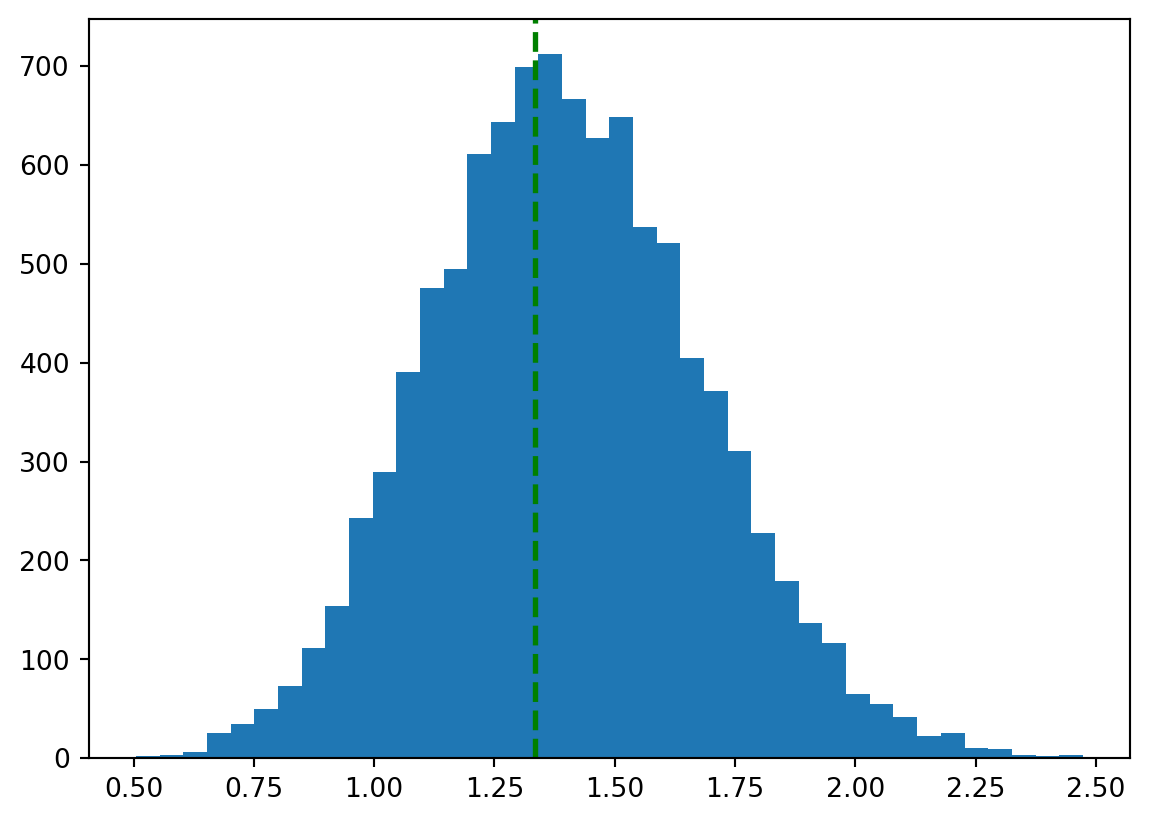
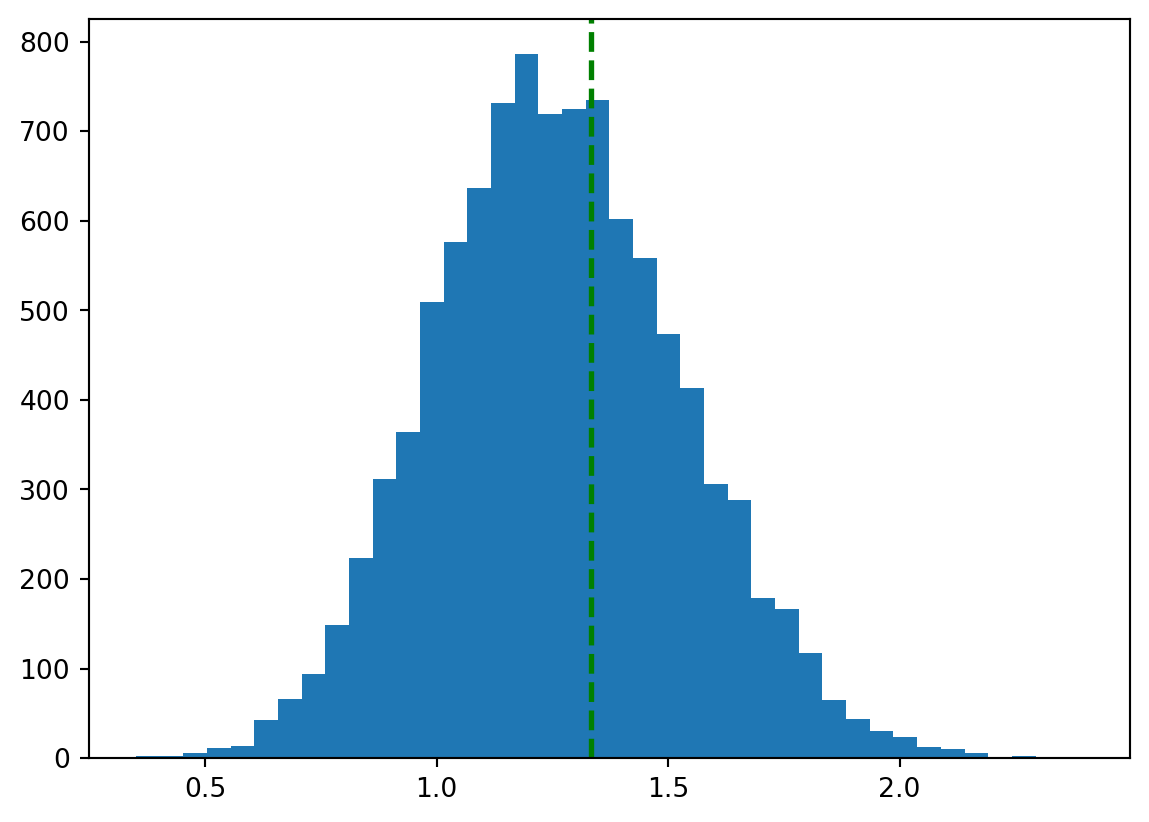
yeah~

diff --git a/docs/posts/hw5/hw5.html b/docs/posts/hw5/hw5.html
@@ -7,7 +7,7 @@
 <meta name="viewport" content="width=device-width, initial-scale=1.0, user-scalable=yes">
 
 <meta name="author" content="iljoon">
-<meta name="dcterms.date" content="2024-07-29">
+<meta name="dcterms.date" content="2024-07-30">
 
 <title>장일준 포트폴리오 페이지 - LS Bigdata School Homework 5</title>
 <style>
@@ -163,7 +163,7 @@ pre > code.sourceCode > span > a:first-child::before { text-decoration: underlin
       <div>
       <div class="quarto-title-meta-heading">Published</div>
       <div class="quarto-title-meta-contents">
-        <p class="date">July 29, 2024</p>
+        <p class="date">July 30, 2024</p>
       </div>
     </div>
     
@@ -179,7 +179,8 @@ pre > code.sourceCode > span > a:first-child::before { text-decoration: underlin
     <h2 id="toc-title">On this page</h2>
    
   <ul>
-  <li><a href="#패키지-불러오기." id="toc-패키지-불러오기." class="nav-link active" data-scroll-target="#패키지-불러오기.">패키지 불러오기.</a></li>
+  <li><a href="#분산-구할-때-n으로-나누기-n-1로-나누기-비교" id="toc-분산-구할-때-n으로-나누기-n-1로-나누기-비교" class="nav-link active" data-scroll-target="#분산-구할-때-n으로-나누기-n-1로-나누기-비교">분산 구할 때 n으로 나누기, n-1로 나누기 비교</a></li>
+  <li><a href="#패키지-불러오기." id="toc-패키지-불러오기." class="nav-link" data-scroll-target="#패키지-불러오기.">패키지 불러오기.</a></li>
   <li><a href="#표본-분산-계산해보기" id="toc-표본-분산-계산해보기" class="nav-link" data-scroll-target="#표본-분산-계산해보기">표본 분산 계산해보기</a></li>
   <li><a href="#이론적인-분산-값" id="toc-이론적인-분산-값" class="nav-link" data-scroll-target="#이론적인-분산-값">이론적인 분산 값</a></li>
   <li><a href="#몬테카를로-시뮬레이션을-이용해서-분산값-구하기." id="toc-몬테카를로-시뮬레이션을-이용해서-분산값-구하기." class="nav-link" data-scroll-target="#몬테카를로-시뮬레이션을-이용해서-분산값-구하기.">몬테카를로 시뮬레이션을 이용해서 분산값 구하기.</a></li>
@@ -198,13 +199,16 @@ pre > code.sourceCode > span > a:first-child::before { text-decoration: underlin
 
 
 
+<section id="분산-구할-때-n으로-나누기-n-1로-나누기-비교" class="level1">
+<h1>분산 구할 때 n으로 나누기, n-1로 나누기 비교</h1>
 <p>표본 분산 계산 시 왜 n-1로 나누는지 알아보도록 하겠습니다.</p>
 <p>균일분포 (3, 7)에서 20개의 표본을 뽑아서 분산을 2가지 방법으로 추정해보세요.</p>
 <p>n-1로 나눈 것을 s_2, n으로 나눈 것을 k_2로 정의하고, s_2의 분포와 k_2의 분포를 그려주세요! (10000개 사용) 각 분포 그래프에 모분산의 위치에 녹색 막대를 그려주세요. 결과를 살펴보고, 왜 n-1로 나눈 것을 분산을 추정하는 지표로 사용하는 것이 타당한지 써주세요!</p>
 <hr>
+</section>
 <section id="패키지-불러오기." class="level1">
 <h1>패키지 불러오기.</h1>
-<div id="57d590d7" class="cell" data-execution_count="1">
+<div id="1037faa1" class="cell" data-execution_count="1">
 <div class="sourceCode cell-code" id="cb1"><pre class="sourceCode python code-with-copy"><code class="sourceCode python"><span id="cb1-1"><a href="#cb1-1" aria-hidden="true" tabindex="-1"></a><span class="im">import</span> numpy <span class="im">as</span> np</span>
 <span id="cb1-2"><a href="#cb1-2" aria-hidden="true" tabindex="-1"></a><span class="im">import</span> pandas <span class="im">as</span> pd</span>
 <span id="cb1-3"><a href="#cb1-3" aria-hidden="true" tabindex="-1"></a><span class="im">import</span> seaborn <span class="im">as</span> sns</span>
@@ -215,40 +219,39 @@ pre > code.sourceCode > span > a:first-child::before { text-decoration: underlin
 </section>
 <section id="표본-분산-계산해보기" class="level1">
 <h1>표본 분산 계산해보기</h1>
-<div id="99fae22c" class="cell" data-execution_count="2">
+<div id="d718cba3" class="cell" data-execution_count="2">
 <div class="sourceCode cell-code" id="cb2"><pre class="sourceCode python code-with-copy"><code class="sourceCode python"><span id="cb2-1"><a href="#cb2-1" aria-hidden="true" tabindex="-1"></a>np.random.seed(<span class="dv">20240729</span>)</span>
 <span id="cb2-2"><a href="#cb2-2" aria-hidden="true" tabindex="-1"></a>x <span class="op">=</span> uniform.rvs(loc <span class="op">=</span> <span class="dv">3</span>, scale <span class="op">=</span> <span class="dv">4</span>, size <span class="op">=</span> <span class="dv">20</span>)</span>
 <span id="cb2-3"><a href="#cb2-3" aria-hidden="true" tabindex="-1"></a>x_bar <span class="op">=</span> np.mean(x)</span>
 <span id="cb2-4"><a href="#cb2-4" aria-hidden="true" tabindex="-1"></a><span class="bu">sum</span>((x <span class="op">-</span> x_bar)<span class="op">**</span><span class="dv">2</span>) <span class="op">/</span> (<span class="bu">len</span>(x)<span class="op">-</span><span class="dv">1</span>)</span>
 <span id="cb2-5"><a href="#cb2-5" aria-hidden="true" tabindex="-1"></a><span class="co"># 1.669</span></span></code><button title="Copy to Clipboard" class="code-copy-button"><i class="bi"></i></button></pre></div>
-<div class="cell-output cell-output-display" data-execution_count="2">
+<div class="cell-output cell-output-display" data-execution_count="10">
 <pre><code>np.float64(1.6697498189003381)</code></pre>
 </div>
 </div>
 </section>
 <section id="이론적인-분산-값" class="level1">
 <h1>이론적인 분산 값</h1>
-<div id="5c3868b2" class="cell" data-execution_count="3">
+<div id="d1f29ba6" class="cell" data-execution_count="3">
 <div class="sourceCode cell-code" id="cb4"><pre class="sourceCode python code-with-copy"><code class="sourceCode python"><span id="cb4-1"><a href="#cb4-1" aria-hidden="true" tabindex="-1"></a>my_var <span class="op">=</span> uniform.var(loc <span class="op">=</span> <span class="dv">3</span>, scale <span class="op">=</span> <span class="dv">4</span>)</span>
 <span id="cb4-2"><a href="#cb4-2" aria-hidden="true" tabindex="-1"></a><span class="co"># 1.333</span></span></code><button title="Copy to Clipboard" class="code-copy-button"><i class="bi"></i></button></pre></div>
 </div>
 </section>
 <section id="몬테카를로-시뮬레이션을-이용해서-분산값-구하기." class="level1">
 <h1>몬테카를로 시뮬레이션을 이용해서 분산값 구하기.</h1>
-<div id="5fcde32d" class="cell" data-execution_count="4">
+<div id="922fc1b8" class="cell" data-execution_count="4">
 <div class="sourceCode cell-code" id="cb5"><pre class="sourceCode python code-with-copy"><code class="sourceCode python"><span id="cb5-1"><a href="#cb5-1" aria-hidden="true" tabindex="-1"></a>np.random.seed(<span class="dv">20240729</span>)</span>
 <span id="cb5-2"><a href="#cb5-2" aria-hidden="true" tabindex="-1"></a>x <span class="op">=</span> uniform.rvs(loc <span class="op">=</span> <span class="dv">3</span>, scale <span class="op">=</span> <span class="dv">4</span>, size <span class="op">=</span> <span class="dv">20</span> <span class="op">*</span> <span class="dv">10000</span>)</span>
 <span id="cb5-3"><a href="#cb5-3" aria-hidden="true" tabindex="-1"></a>x.shape</span>
-<span id="cb5-4"><a href="#cb5-4" aria-hidden="true" tabindex="-1"></a>x <span class="op">=</span> np.reshape(x, (<span class="dv">20</span>, <span class="op">-</span><span class="dv">1</span>))</span>
+<span id="cb5-4"><a href="#cb5-4" aria-hidden="true" tabindex="-1"></a>x <span class="op">=</span> np.reshape(x, (<span class="op">-</span><span class="dv">1</span>, <span class="dv">20</span>))</span>
 <span id="cb5-5"><a href="#cb5-5" aria-hidden="true" tabindex="-1"></a>x.shape</span>
-<span id="cb5-6"><a href="#cb5-6" aria-hidden="true" tabindex="-1"></a>x_bar <span class="op">=</span> np.mean(x)</span>
-<span id="cb5-7"><a href="#cb5-7" aria-hidden="true" tabindex="-1"></a>s_2 <span class="op">=</span> <span class="bu">sum</span>((x <span class="op">-</span> x_bar)<span class="op">**</span><span class="dv">2</span>) <span class="op">/</span> <span class="bu">len</span>(x) <span class="co"># n 으로 나누기.</span></span>
-<span id="cb5-8"><a href="#cb5-8" aria-hidden="true" tabindex="-1"></a>k_2 <span class="op">=</span> <span class="bu">sum</span>((x <span class="op">-</span> x_bar)<span class="op">**</span><span class="dv">2</span>) <span class="op">/</span> (<span class="bu">len</span>(x)<span class="op">-</span><span class="dv">1</span>) <span class="co"># n-1 으로 나누기.</span></span></code><button title="Copy to Clipboard" class="code-copy-button"><i class="bi"></i></button></pre></div>
+<span id="cb5-6"><a href="#cb5-6" aria-hidden="true" tabindex="-1"></a>s_2 <span class="op">=</span> x.var(axis <span class="op">=</span> <span class="dv">1</span>, ddof <span class="op">=</span> <span class="dv">1</span>)  <span class="co"># n-1 으로 나누기.</span></span>
+<span id="cb5-7"><a href="#cb5-7" aria-hidden="true" tabindex="-1"></a>k_2 <span class="op">=</span> x.var(axis <span class="op">=</span> <span class="dv">1</span>, ddof <span class="op">=</span> <span class="dv">0</span>) <span class="co"># n 으로 나누기.</span></span></code><button title="Copy to Clipboard" class="code-copy-button"><i class="bi"></i></button></pre></div>
 </div>
 </section>
 <section id="s_2-그래프-그리기" class="level1">
 <h1>s_2 그래프 그리기</h1>
-<div id="105987f6" class="cell" data-execution_count="5">
+<div id="fb821382" class="cell" data-execution_count="5">
 <div class="sourceCode cell-code" id="cb6"><pre class="sourceCode python code-with-copy"><code class="sourceCode python"><span id="cb6-1"><a href="#cb6-1" aria-hidden="true" tabindex="-1"></a>plt.hist(s_2, bins <span class="op">=</span> <span class="dv">40</span>)</span>
 <span id="cb6-2"><a href="#cb6-2" aria-hidden="true" tabindex="-1"></a>plt.axvline(my_var, color <span class="op">=</span> <span class="st">'green'</span>, linestyle <span class="op">=</span> <span class="st">'dashed'</span>, linewidth <span class="op">=</span> <span class="dv">2</span>)</span>
 <span id="cb6-3"><a href="#cb6-3" aria-hidden="true" tabindex="-1"></a>plt.show()</span>
@@ -267,12 +270,11 @@ pre > code.sourceCode > span > a:first-child::before { text-decoration: underlin
 </section>
 <section id="k_2-그래프-그리기" class="level1">
 <h1>k_2 그래프 그리기</h1>
-<div id="8df6e551" class="cell" data-execution_count="6">
+<div id="8c5f4d13" class="cell" data-execution_count="6">
 <div class="sourceCode cell-code" id="cb8"><pre class="sourceCode python code-with-copy"><code class="sourceCode python"><span id="cb8-1"><a href="#cb8-1" aria-hidden="true" tabindex="-1"></a>plt.hist(k_2, bins <span class="op">=</span> <span class="dv">40</span>)</span>
 <span id="cb8-2"><a href="#cb8-2" aria-hidden="true" tabindex="-1"></a>plt.axvline(my_var, color <span class="op">=</span> <span class="st">'green'</span>, linestyle <span class="op">=</span> <span class="st">'dashed'</span>, linewidth <span class="op">=</span> <span class="dv">2</span>)</span>
 <span id="cb8-3"><a href="#cb8-3" aria-hidden="true" tabindex="-1"></a>plt.show()</span>
-<span id="cb8-4"><a href="#cb8-4" aria-hidden="true" tabindex="-1"></a>plt.clf()</span>
-<span id="cb8-5"><a href="#cb8-5" aria-hidden="true" tabindex="-1"></a><span class="co"># k_2가 조금 더 가까운 것으로 확인 된다.</span></span></code><button title="Copy to Clipboard" class="code-copy-button"><i class="bi"></i></button></pre></div>
+<span id="cb8-4"><a href="#cb8-4" aria-hidden="true" tabindex="-1"></a>plt.clf()</span></code><button title="Copy to Clipboard" class="code-copy-button"><i class="bi"></i></button></pre></div>
 <div class="cell-output cell-output-display">
 <div>
 <figure class="figure">
@@ -284,22 +286,23 @@ pre > code.sourceCode > span > a:first-child::before { text-decoration: underlin
 <pre><code>&lt;Figure size 672x480 with 0 Axes&gt;</code></pre>
 </div>
 </div>
+<p>s_2 그래프가 이론적인 값에 더욱 가까운 것으로 확인 됨.</p>
 </section>
 <section id="이번엔-어떤-것이-이론적인-값에-가까웠는지-각각-경우마다-싸움을-붙여보겠다." class="level1">
 <h1>이번엔 어떤 것이 이론적인 값에 가까웠는지 각각 경우마다 싸움을 붙여보겠다.</h1>
-<div id="73e8aa55" class="cell" data-execution_count="7">
+<div id="33bf90d0" class="cell" data-execution_count="7">
 <div class="sourceCode cell-code" id="cb10"><pre class="sourceCode python code-with-copy"><code class="sourceCode python"><span id="cb10-1"><a href="#cb10-1" aria-hidden="true" tabindex="-1"></a>result <span class="op">=</span> []</span>
 <span id="cb10-2"><a href="#cb10-2" aria-hidden="true" tabindex="-1"></a><span class="cf">for</span> i <span class="kw">in</span> <span class="bu">range</span>(<span class="dv">10000</span>):</span>
 <span id="cb10-3"><a href="#cb10-3" aria-hidden="true" tabindex="-1"></a>    <span class="cf">if</span> (s_2[i] <span class="op">-</span> my_var)<span class="op">**</span><span class="dv">2</span> <span class="op">&lt;</span> (k_2[i] <span class="op">-</span> my_var)<span class="op">**</span><span class="dv">2</span>:</span>
-<span id="cb10-4"><a href="#cb10-4" aria-hidden="true" tabindex="-1"></a>        result.append(<span class="st">"n-1"</span>)</span>
+<span id="cb10-4"><a href="#cb10-4" aria-hidden="true" tabindex="-1"></a>        result.append(<span class="st">"s_2 win"</span>)</span>
 <span id="cb10-5"><a href="#cb10-5" aria-hidden="true" tabindex="-1"></a>    <span class="cf">elif</span> (s_2[i] <span class="op">-</span> my_var)<span class="op">**</span><span class="dv">2</span> <span class="op">&gt;</span> (k_2[i] <span class="op">-</span> my_var)<span class="op">**</span><span class="dv">2</span>:</span>
-<span id="cb10-6"><a href="#cb10-6" aria-hidden="true" tabindex="-1"></a>        result.append(<span class="st">"n"</span>)</span>
+<span id="cb10-6"><a href="#cb10-6" aria-hidden="true" tabindex="-1"></a>        result.append(<span class="st">"k_2 win"</span>)</span>
 <span id="cb10-7"><a href="#cb10-7" aria-hidden="true" tabindex="-1"></a><span class="co"># 10000개의 분산값을 각각 비교해서 이론적인 분산에 더 가까우면 그 방법을 1점 주는 반복문.</span></span></code><button title="Copy to Clipboard" class="code-copy-button"><i class="bi"></i></button></pre></div>
 </div>
 </section>
 <section id="싸움-결과-시각화." class="level1">
 <h1>싸움 결과 시각화.</h1>
-<div id="18112e4d" class="cell" data-execution_count="8">
+<div id="08e93ef7" class="cell" data-execution_count="8">
 <div class="sourceCode cell-code" id="cb11"><pre class="sourceCode python code-with-copy"><code class="sourceCode python"><span id="cb11-1"><a href="#cb11-1" aria-hidden="true" tabindex="-1"></a>sns.countplot(data <span class="op">=</span> result)</span>
 <span id="cb11-2"><a href="#cb11-2" aria-hidden="true" tabindex="-1"></a>plt.show()</span>
 <span id="cb11-3"><a href="#cb11-3" aria-hidden="true" tabindex="-1"></a>plt.clf()</span>
@@ -307,7 +310,7 @@ pre > code.sourceCode > span > a:first-child::before { text-decoration: underlin
 <div class="cell-output cell-output-display">
 <div>
 <figure class="figure">
-<p><img src="hw5_files/figure-html/cell-9-output-1.png" width="571" height="429" class="figure-img"></p>
+<p><img src="hw5_files/figure-html/cell-9-output-1.png" width="599" height="429" class="figure-img"></p>
 </figure>
 </div>
 </div>
@@ -319,6 +322,7 @@ pre > code.sourceCode > span > a:first-child::before { text-decoration: underlin
 <section id="결론" class="level1">
 <h1>결론</h1>
 <p>n-1을 사용하는 것이 이론적인 값에 더욱 도달하는 것을 살펴봤다. 왜 분산값을 구할 때 n-1이 더 된 것인지지는 내일 설명을 들어야겠다.</p>
+<p>+코드 잘못된거 수정함_240730</p>
 
 
 </section>

diff --git a/docs/blog.html b/docs/blog.html
@@ -198,7 +198,7 @@ window.Quarto = {
 
 <div class="quarto-listing quarto-listing-container-default" id="listing-listing">
 <div class="list quarto-listing-default">
-<div class="quarto-post image-right" data-index="0" data-categories="homework" data-listing-date-sort="1722178800000" data-listing-file-modified-sort="1722260202068" data-listing-date-modified-sort="NaN" data-listing-reading-time-sort="2" data-listing-word-count-sort="277">
+<div class="quarto-post image-right" data-index="0" data-categories="homework" data-listing-date-sort="1722265200000" data-listing-file-modified-sort="1722334608620" data-listing-date-modified-sort="NaN" data-listing-reading-time-sort="2" data-listing-word-count-sort="285">
 <div class="thumbnail">
 <p><a href="./posts/hw5/hw5.html" class="no-external"></a></p><a href="./posts/hw5/hw5.html" class="no-external">
 <p class="card-img-top"><img src="posts\hw5\hw5_files\figure-html\cell-6-output-1.png"  class="thumbnail-image card-img"/></p>
@@ -223,7 +223,7 @@ homework
 <div class="metadata">
 <a href="./posts/hw5/hw5.html" class="no-external">
 <div class="listing-date">
-Jul 29, 2024
+Jul 30, 2024
 </div>
 <div class="listing-author">
 iljoon

diff --git a/posts/hw5/hw5_240730.py b/posts/hw5/hw5_240730.py
@@ -1,48 +1,37 @@
----
-title: "LS Bigdata School Homework 5"
-author: iljoon
-date: "2024-07-30"
-categories: [homework]
-jupyter: python3
----
+'''
+표본 분산 계산 시 왜 n-1로 나누는지
+알아보도록 하겠습니다.
 
-# 분산 구할 때 n으로 나누기, n-1로 나누기 비교
+균일분포 (3, 7)에서 20개의 표본을 뽑아서
+분산을 2가지 방법으로 추정해보세요.
 
-표본 분산 계산 시 왜 n-1로 나누는지 알아보도록 하겠습니다.
+n-1로 나눈 것을 s_2, n으로 나눈 것을 k_2로 정의하고,
+s_2의 분포와 k_2의 분포를 그려주세요! (10000개 사용)
 
-균일분포 (3, 7)에서 20개의 표본을 뽑아서 분산을 2가지 방법으로 추정해보세요.
+각 분포 그래프에 모분산의 위치에 녹색 막대를 그려주세요.
 
-n-1로 나눈 것을 s_2, n으로 나눈 것을 k_2로 정의하고, s_2의 분포와 k_2의 분포를 그려주세요! (10000개 사용) 각 분포 그래프에 모분산의 위치에 녹색 막대를 그려주세요. 결과를 살펴보고, 왜 n-1로 나눈 것을 분산을 추정하는 지표로 사용하는 것이 타당한지 써주세요!
-
----
-
-# 패키지 불러오기.
-```{python}
+결과를 살펴보고,
+왜 n-1로 나눈 것을 분산을 추정하는 지표로 사용하는 것이 타당한지 써주세요!
+'''
 import numpy as np
 import pandas as pd
 import seaborn as sns
 import matplotlib.pyplot as plt
 from scipy.stats import norm
 from scipy.stats import uniform
-```
 
-# 표본 분산 계산해보기
-```{python}
+# 표본 분산 계산해보기.
 np.random.seed(20240729)
 x = uniform.rvs(loc = 3, scale = 4, size = 20)
 x_bar = np.mean(x)
 sum((x - x_bar)**2) / (len(x)-1)
 # 1.669
-```
 
 # 이론적인 분산 값
-```{python}
 my_var = uniform.var(loc = 3, scale = 4)
 # 1.333
-```
 
 # 몬테카를로 시뮬레이션을 이용해서 분산값 구하기.
-```{python}
 np.random.seed(20240729)
 x = uniform.rvs(loc = 3, scale = 4, size = 20 * 10000)
 x.shape
@@ -50,47 +39,31 @@ x = np.reshape(x, (-1, 20))
 x.shape
 s_2 = x.var(axis = 1, ddof = 1)  # n-1 으로 나누기.
 k_2 = x.var(axis = 1, ddof = 0) # n 으로 나누기.
-```
 
 # s_2 그래프 그리기
-```{python}
 plt.hist(s_2, bins = 40)
 plt.axvline(my_var, color = 'green', linestyle = 'dashed', linewidth = 2)
 plt.show()
 plt.clf()
-```
 
-# k_2 그래프 그리기
-```{python}
+# k_2 그래프 그리기기
 plt.hist(k_2, bins = 40)
 plt.axvline(my_var, color = 'green', linestyle = 'dashed', linewidth = 2)
 plt.show()
 plt.clf()
-```
-s_2 그래프가 이론적인 값에 더욱 가까운 것으로 확인 됨.
+# k_2가 조금 더 가까운 것으로 확인 된다.
 
 # 이번엔 어떤 것이 이론적인 값에 가까웠는지 각각 경우마다 싸움을 붙여보겠다.
-```{python}
 result = []
 for i in range(10000):
     if (s_2[i] - my_var)**2 < (k_2[i] - my_var)**2:
-        result.append("s_2 win")
+        result.append("n-1")
     elif (s_2[i] - my_var)**2 > (k_2[i] - my_var)**2:
-        result.append("k_2 win")
+        result.append("n")
 # 10000개의 분산값을 각각 비교해서 이론적인 분산에 더 가까우면 그 방법을 1점 주는 반복문.
-```
 
 # 싸움 결과 시각화.
-```{python}
 sns.countplot(data = result)
 plt.show()
 plt.clf()
 # n-1이 더 효과 있따!!!
-```
-
-
-# 결론
-n-1을 사용하는 것이 이론적인 값에 더욱 도달하는 것을 살펴봤다.
-왜 분산값을 구할 때 n-1이 더 된 것인지지는 내일 설명을 들어야겠다.
-
-+코드 잘못된거 수정함_240730
